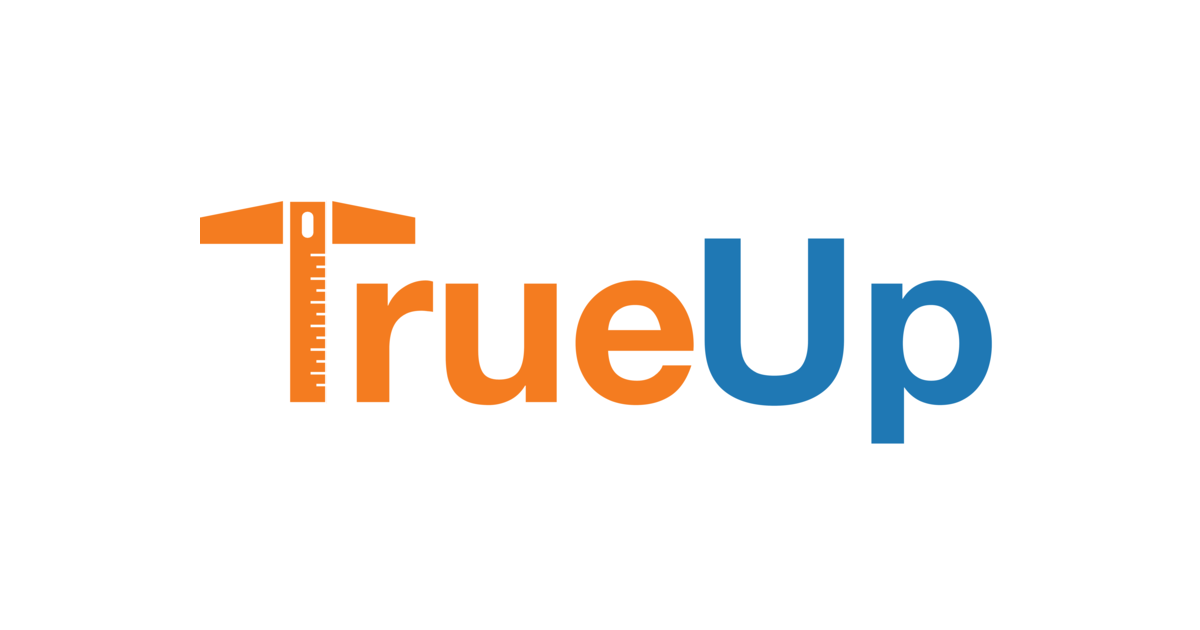
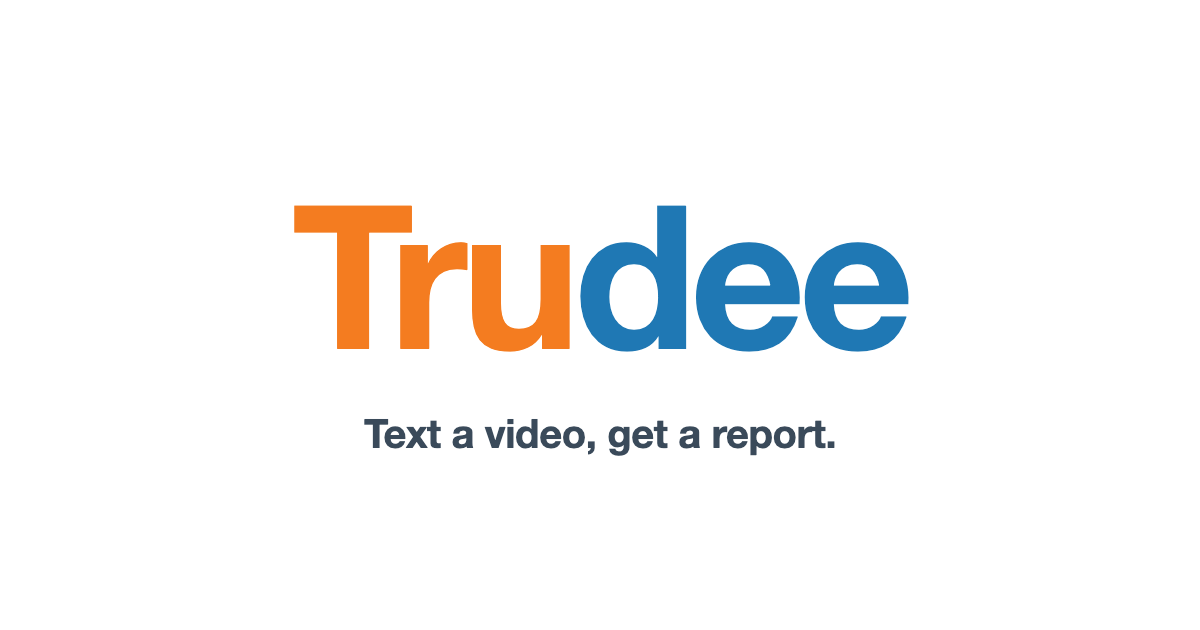
Rebrand wordmark TrueUp -> Trudee (Tru orange, dee blue)
Split the header logo into Tru (orange) / dee (blue) spans and
regenerate the social share card (og-image) to match.

Changed region(s): [[0.1542, 0.3016, 0.8325, 0.7238]]

diff --git a/_includes/header.html b/_includes/header.html
@@ -1,7 +1,7 @@
 <header class="site-header">
   <div class="wrap">
     <a class="logo" href="{{ '/' | relative_url }}" aria-label="Trudee home">
-      <span class="logo-text">Trudee</span>
+      <span class="logo-text"><span class="logo-tru">Tru</span><span class="logo-dee">dee</span></span>
     </a>
     <nav class="nav" aria-label="Main navigation">
       <a href="{{ '/' | relative_url }}">Home</a>

diff --git a/css/main.css b/css/main.css
@@ -123,13 +123,15 @@ img {
   font-weight: 800;
   font-size: 1.7rem;
   letter-spacing: -0.02em;
-  color: var(--color-blue-dark);
   line-height: 1;
 }
 
-.site-header .logo-text::after {
-  content: ".";
+.site-header .logo-tru {
   color: var(--color-orange);
+}
+
+.site-header .logo-dee {
+  color: var(--color-blue);
 }
 
 .site-header .logo img {
